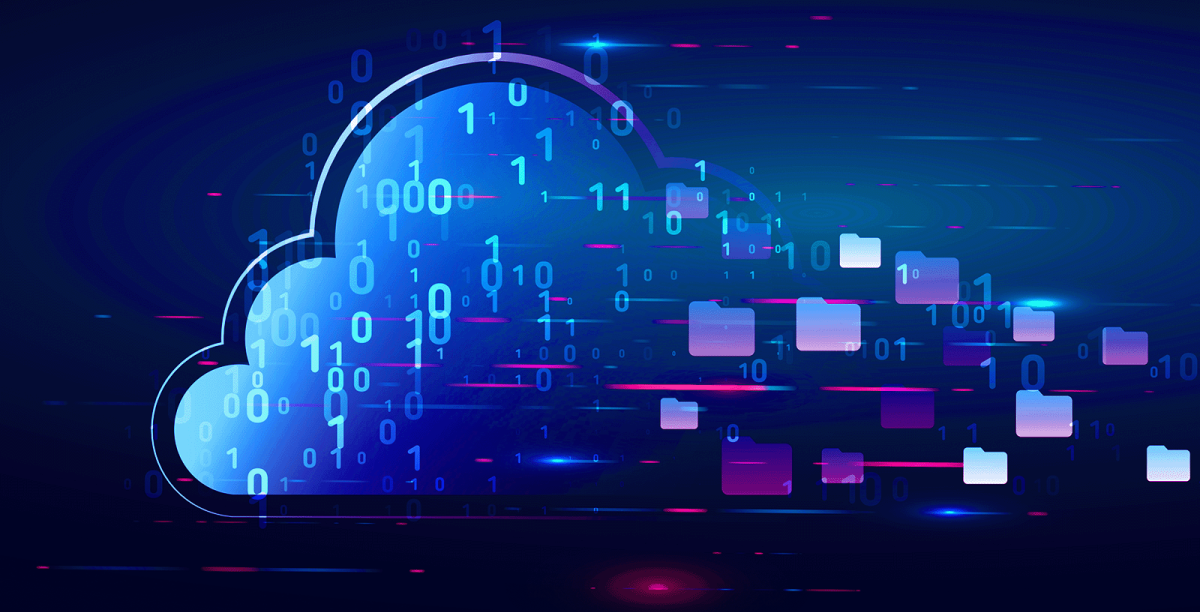
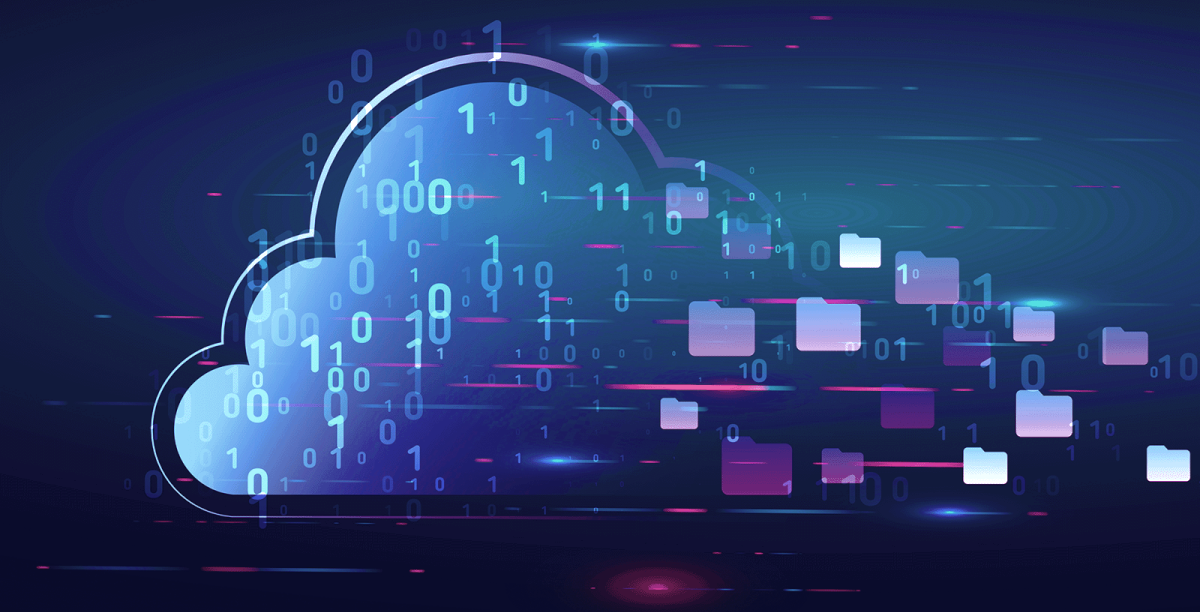
Alteração nas cores das imagens

diff --git a/index.html b/index.html
@@ -26,7 +26,6 @@
 								<a href="#">Estudos e Projetos</a>
 								<ul>
 									<li><a href="#" >SQL</a></li>
-									<li><a href="#" >SQL</a></li>
 									<li><a href="https://medium.com/@camila.tanaka/list/estudos-para-az900-dd15a14df3dc" >Certificações</a></li>
 									<li><a href="#" >Python</a></li>
 									<li><a href="#" >Engenharia de Dados</a></li>
@@ -86,11 +85,12 @@
 				</section>
 
 			<!-- Two -->
-			<section id="two" class="spotlight style1 bottom" style="display: flex; justify-content: center; padding: 2rem;">
+			<section id="two" class="spotlight style1 bottom" style="justify-content: center; padding: 2rem;">
 			    <span class="image fit main"><img src="images/computing.png" alt="" /></span>
 			    <div class="content">
+						<div class="container">
 			        <header>
-			            <h2>Estudos e Projetos</h2>
+			            <h2>ESTUDOS E PROJETOS</h2>
 			        </header>
 			        <p>Todos os meus estudos e projetos já realizados e documentados.</p>
 			        <ul class="actions">
@@ -102,6 +102,7 @@
 			            <li><a href="#" class="button">Projetos</a></li>
 			        </ul>
 			    </div>
+					</div>
 			    <a href="#three" class="goto-next scrolly">Next</a>
 			</section>
 
